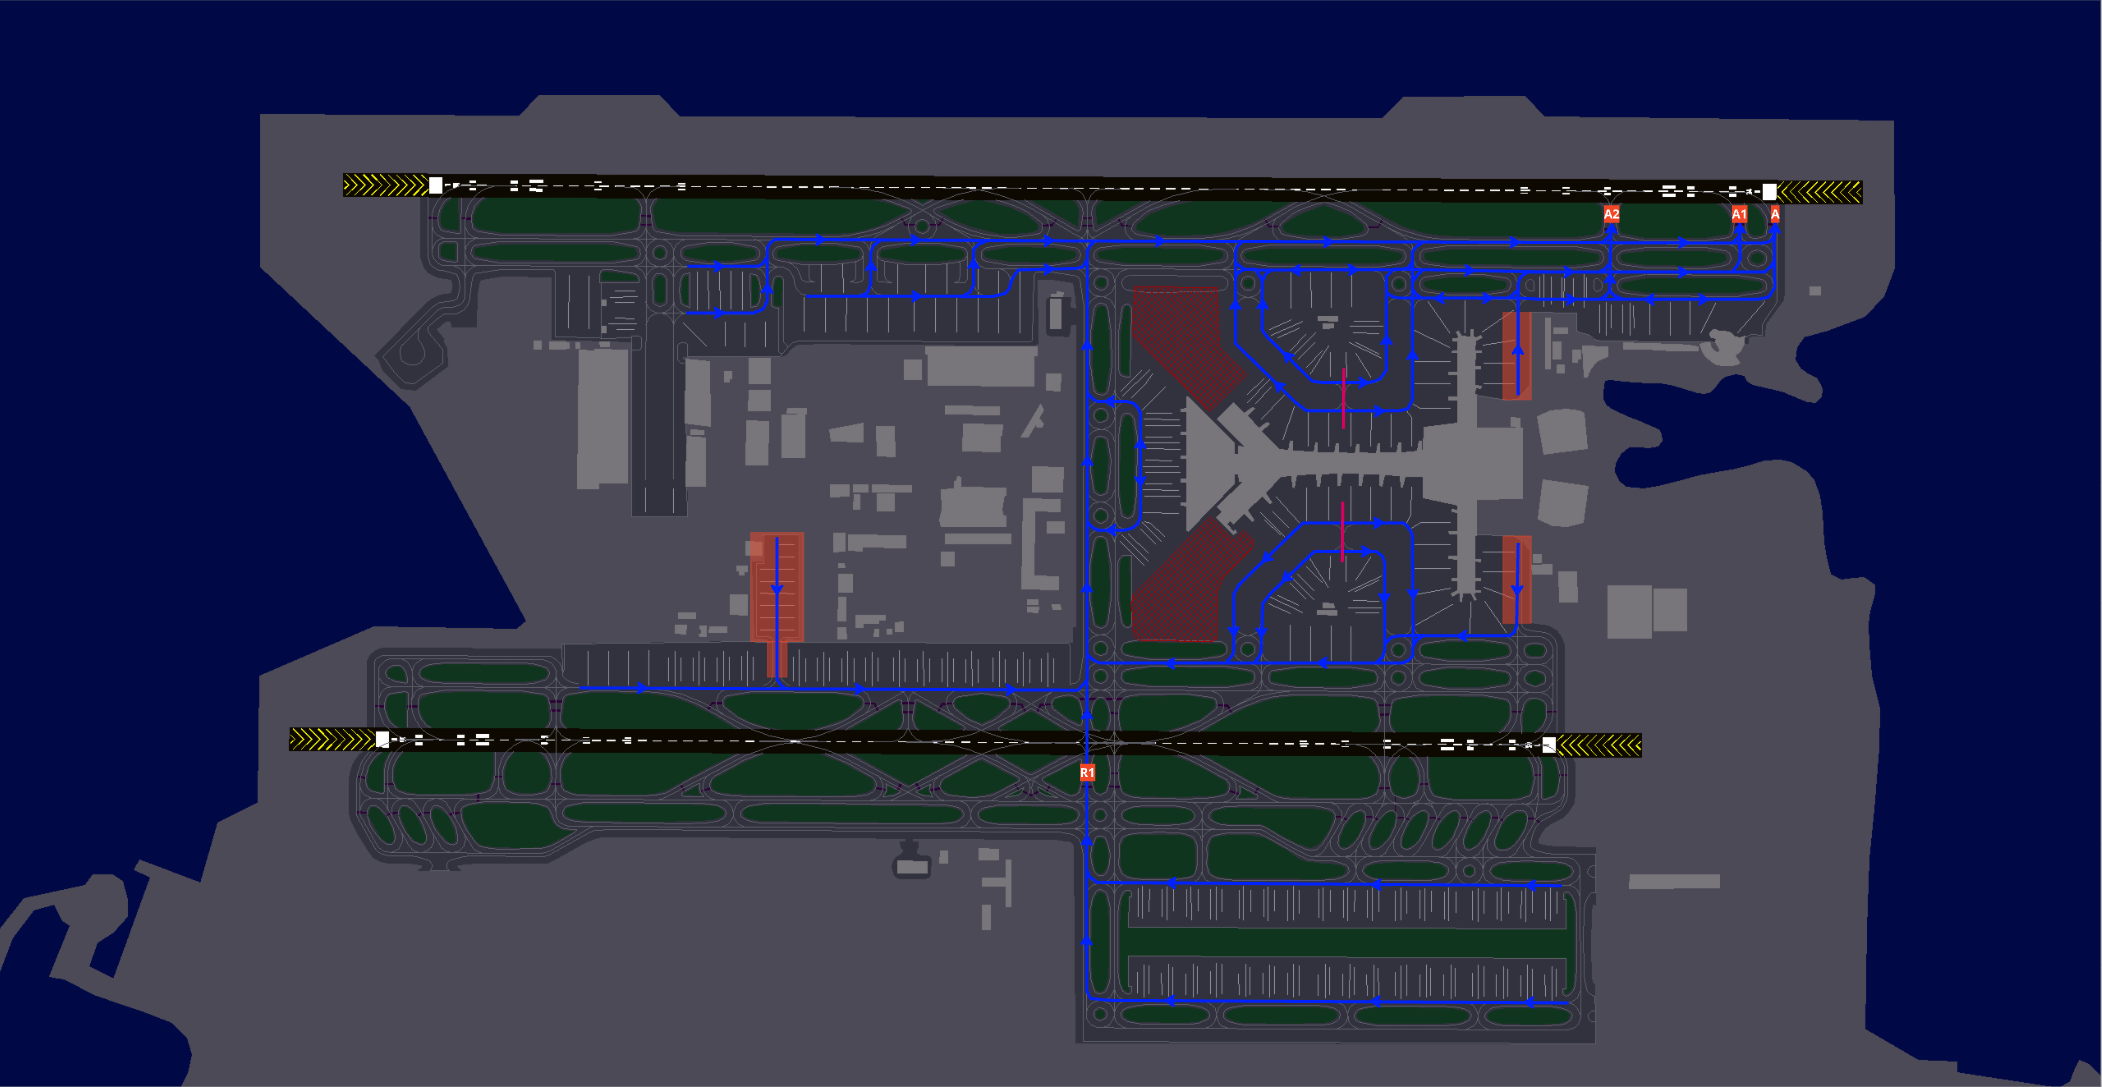
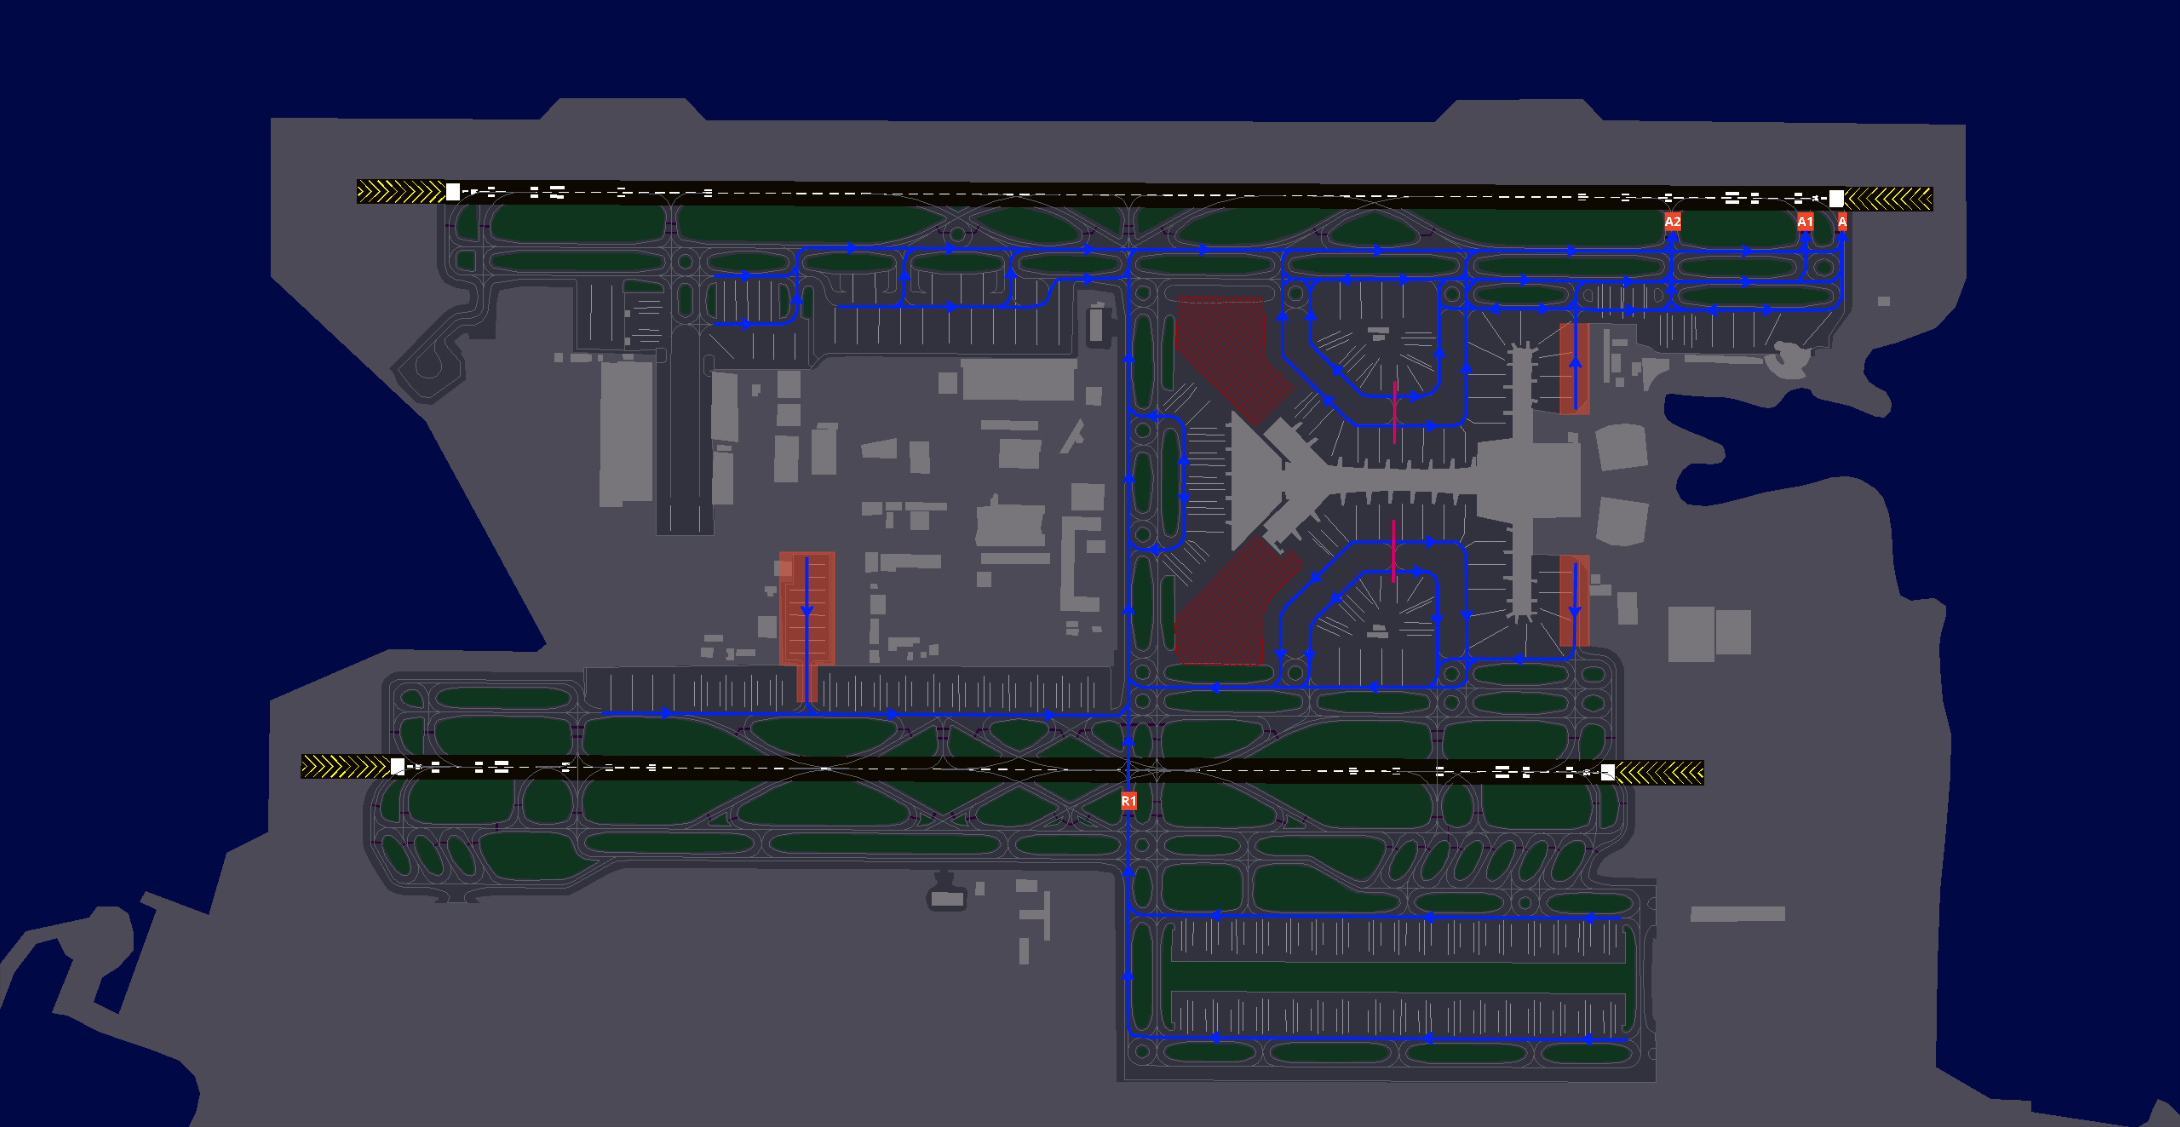
Departure flows completed

diff --git a/docs/aerodrome/doha-hamad/gmc.md b/docs/aerodrome/doha-hamad/gmc.md
@@ -197,6 +197,43 @@ Aircraft that have pushed back onto taxiway S2 shall taxi to join R1, R, and B t
 Aircraft that have pushed back onto taxiway S3 shall taxi to join R1, R, and B to reach holding points A10, A11, or A12.
 
 ### 3.3.3 Runway 16R departure taxi procedures
+#### 3.3.3.1 Concourse A, C (West), D, and Remote Transfer H.
+Aircraft that have pushed back onto taxiway W shall taxi via K to reach holding points L10, L11, or L12.
+
+Aircraft that have pushed back onto taxiway J shall taxi via K to reach holding points L10, L11, or L12.
+
+Aircraft that have pushed back onto taxiways W1, W2, W3, or W4 shall taxi via K to reach holding points A10, A11, or A12.
+
+#### 3.3.3.2 Concourse B, C (East), E, and Remote Transfer G
+Aircraft that have pushed back onto taxiways E, E1, E2, E3, or E4 shall taxi to join C, S, and K to reach holding points L10, L11, or L12.
+
+Aircraft that have pushed back onto taxiway D shall taxi to join E1, C, S, and K to reach holding points L10, L11, or L12.
+
+Aircraft that have pushed back onto taxiway C shall taxi to join S, and K to reach holding points L10, L11, or L12.
+
+#### 3.3.3.3 Central Concourse
+Aircraft that have pushed back onto taxiway N shall taxi to join S and K to reach holding points L10, L11, or L12.
+
+#### 3.3.3.4 Apron Cargo
+Aircraft that have pushed back onto taxiway F shall taxi to join C, S, and K to reach holding points L10, L11, or L12.
+
+#### 3.3.3.5 Apron V
+Aircraft that have pushed back onto taxiway V shall taxi to join C, S, and K to to reach holding points L10, L11, or L12.
+
+Aircraft that have pushed back onto taxiway C shall taxi to join S and K to reach holding points L10, L11, or L12.
+
+#### 3.3.3.6 Apron 4
+Aircraft that have pushed back onto taxiway Q shall taxi to join F or B, then continue onto S and K to reach holding points L10, L11, or L12.
+
+#### 3.3.3.7 Apron 5
+Aircraft that have pushed back onto taxiway K shall taxi to reach holding points L10, L11, or L12.
+
+Aircraft that have pushed back onto taxiway Y shall taxi to join K to reach holding points L10, L11, or L12.
+
+#### 3.3.3.8 Apron 6
+Aircraft that have pushed back onto taxiway S2 shall taxi to join R1 and M to reach holding points L10, L11, or L12.
+
+Aircraft that have pushed back onto taxiway S3 shall taxi to join R1 and M to reach holding points L10, L11, or L12.
 
 ### 3.3.4 Runway 34L departure taxi procedures
 #### 3.3.4.1 Concourse A, C (West), D, and Remote Transfer H.

diff --git a/docs/aerodrome/doha-hamad/appendix_taxi.md b/docs/aerodrome/doha-hamad/appendix_taxi.md
@@ -8,14 +8,18 @@ Taxiways with a red background are not code F (A380/B747-8) compatible.
 
 ## 6.2 Runway 16L
 ### 6.2.1 Departure
-
+<figure markdown>
+![16L Departure Diagram](img/16l_dep.png)
+</figure>
 
 ### 6.2.2 Arrivals
 
 
 ## 6.3 Runway 16R
 ### 6.3.1 Departure
-
+<figure markdown>
+![16R Departure Diagram](img/16r_dep.png)
+</figure>
 
 ### 6.3.2 Arrivals
 
